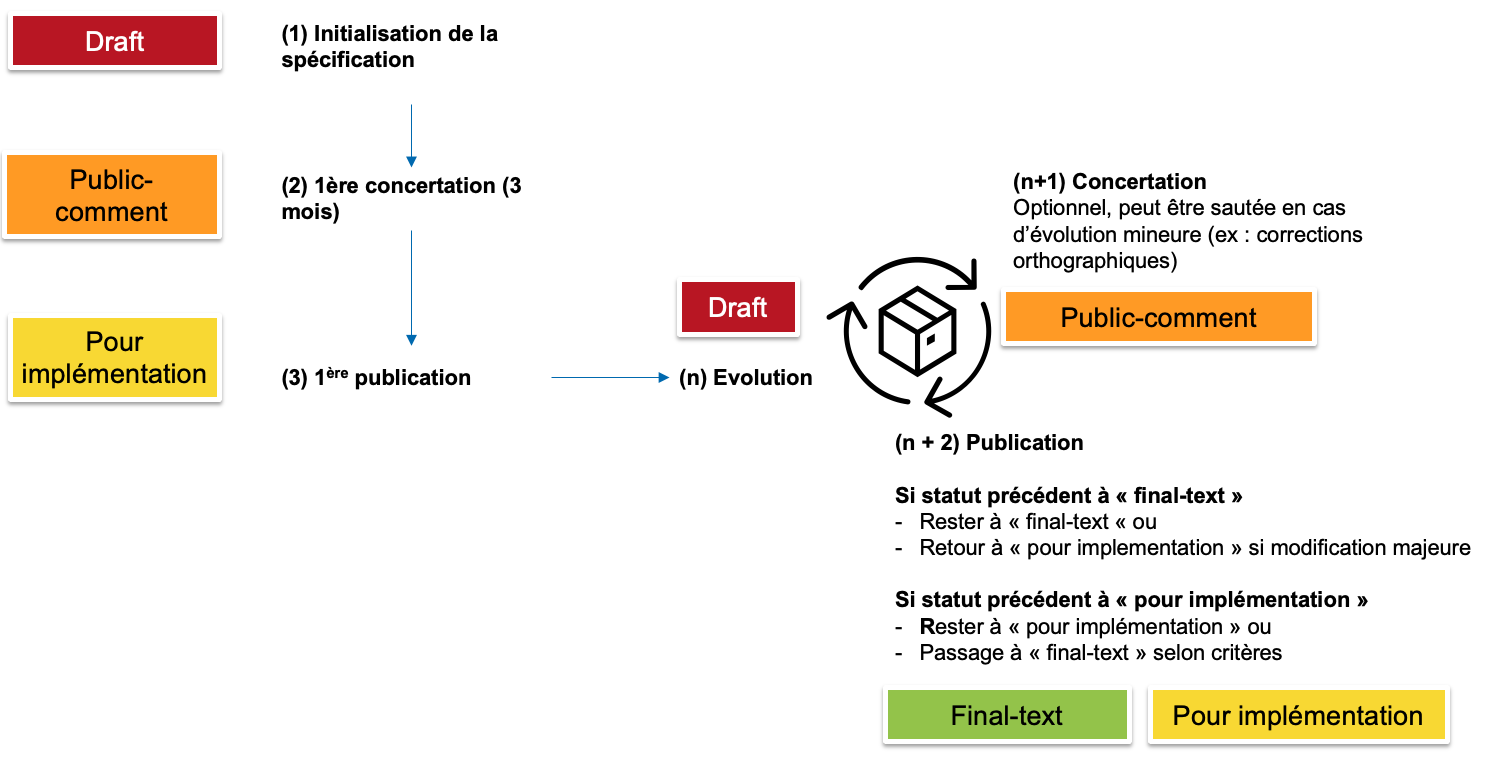
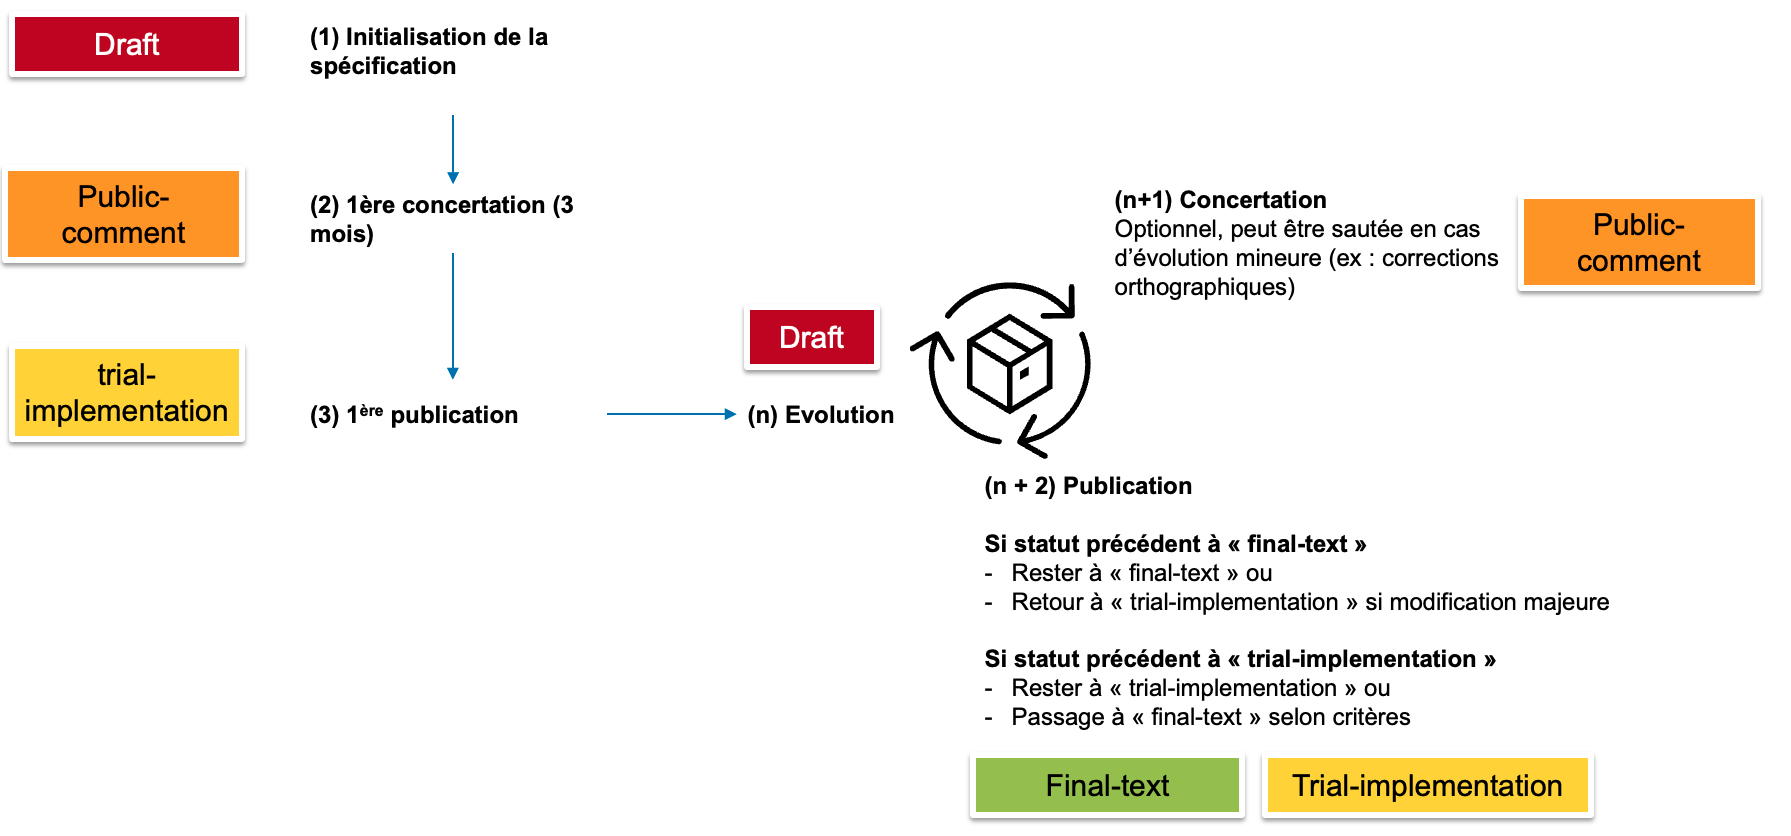
update cycle-de-vie and rm docs

diff --git a/docs/pages/docs/cycle-de-vie.md b/docs/pages/docs/cycle-de-vie.md
@@ -49,16 +49,18 @@ Durant la vie d'une spécification, celle-ci passe par différents statuts expri
 
 ![](../../assets/images/cycle-de-vie.png)
 
-A noter, le statut de cycle de vie n'est pas associé à la version [semver](https://semver.org/lang/fr/).
-Le numéro de version d'une spécification est systématiquement incrémenté à chaque release et est indépendant du statut du cycle de vie. Par exemple, si une faute d'orthographe est corrigée entraînant une incrémentation mineure du numéro de version, cela ne justifie pas un changement de statut.
-A chaque release, une étude pour évaluer un éventuel changement de statut du cycle de vie sera effectuée en suivant le schéma ci-dessus.
-
-Il est à noter qu'une version en final-text peut repasser en trial-use, par exemple en cas de changement majeur comme un refactoring complet de la spécification (passage au format IG, à FHIR R6, changement de standard, ...). Cela signifie que l'ancienne version en final-text ne doit plus être utilisée pour diverses raisons, comme une situation internationale nécessitant de grandes évolutions. Dans ce cas, une note explicative sera associée à la release.
-
-Lorsqu'une nouvelle version d'une spécification est publiée, il est recommandé aux implémenteurs de l'adopter dans les 1 à 2 ans suivant sa publication.
-
 A l'issue d'une concertation, une spécification peut passer au statut « final-text ou « for implementation ». Ce choix dépend du respect de critère de qualité, de maturité, et de la décision de l'auteur.
-Pour passer en final-text, la spécification doit être avoir été implémentatée au niveau national ou testée lors de projectathons avec des retours mineurs.
+Pour passer en final-text, la spécification doit 1/ avoir été publiée au moins une fois en "trial-implementation", 2/ avoir été implémentée au niveau national ou testée lors de projectathons avec des retours mineurs, 3/ respecter les critères de qualité et de maturité et 4/ avoir l'aval de l'auteur qui juge la spécification suffisamment mature et qualitative pour passer à ce statut.
+
+Notes :
+
+<div class="wysiwyg">
+    <ul>
+        <li> Une version en final-text peut repasser en trial-use, par exemple en cas de changement majeur comme un refactoring complet de la spécification (passage au format IG, à FHIR R6, changement de standard, ...). Cela signifie que l'ancienne version en final-text ne doit plus être utilisée pour diverses raisons, comme une situation internationale nécessitant de grandes évolutions. Dans ce cas, une note explicative sera associée à la release. </li>
+        <li> Lorsqu'une nouvelle version d'une spécification est publiée, il est recommandé aux implémenteurs de l'adopter dans les 1 à 2 ans suivant sa publication. </li>
+        <li> le statut de cycle de vie n'est pas associé à la version [semver](https://semver.org/lang/fr/). Le numéro de version d'une spécification est systématiquement incrémenté à chaque release et est indépendant du statut du cycle de vie. Par exemple, si une faute d'orthographe est corrigée entraînant une incrémentation mineure du numéro de version, cela ne justifie pas un changement de statut. A chaque release, une étude pour évaluer un éventuel changement de statut du cycle de vie sera effectuée en suivant le schéma ci-dessus. </li>
+    </ul>
+</div>
 
 ## Définition des critères de maturité
 
